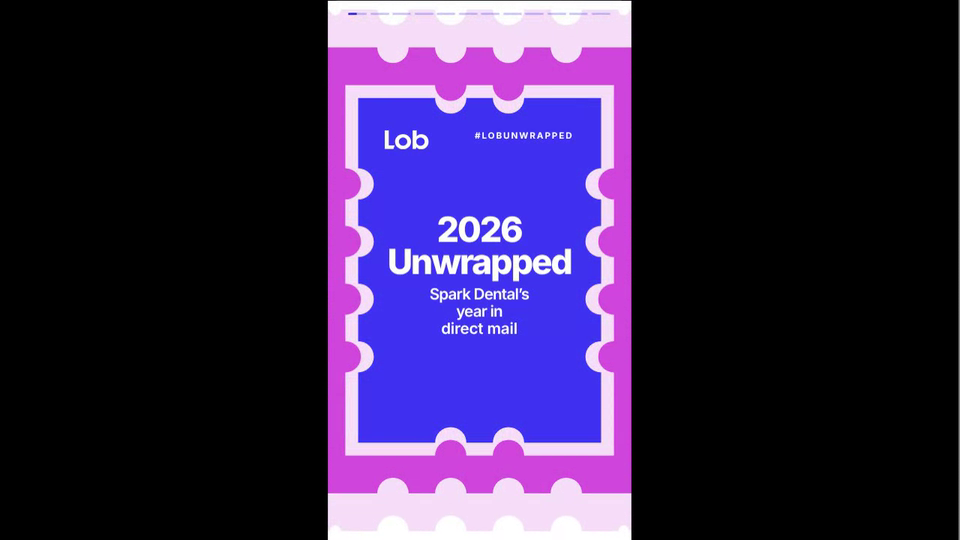
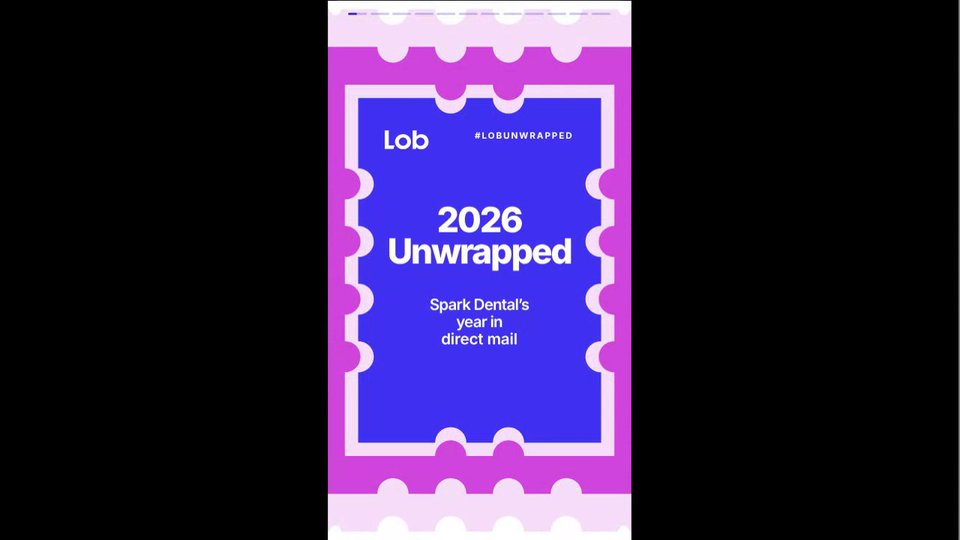
Lob Unwrapped Reel: lower subtitle, bigger slide 2-4 visuals, lower QR visual, metro background behind the chart
Claude-Session: https://claude.ai/code/session_01AHeBdxRVStik7dwokvTaSs

diff --git a/lob-unwrapped-reel/index.html b/lob-unwrapped-reel/index.html
@@ -225,26 +225,27 @@ body{align-items:center}
   .stage>*{--ah:32cqh}
   .in:not(.ctr):not(:has(.cswrap)){grid-template-rows:minmax(0,1fr) 50cqh;row-gap:0;padding-bottom:0;align-items:start}
   .in:not(:has(.cswrap)) .art{align-self:stretch;align-items:center;justify-content:center;padding:0 0 26cqh;overflow:visible}
+  .in:not(.ctr) .art:has(.rankwrap){padding:0;margin-bottom:26cqh}
   .art:not(:has(.cswrap))>.rise{height:var(--ah);display:flex;align-items:center;justify-content:center}
-  .art .tun.round{width:var(--ah);height:var(--ah)}
-  .art>.rise>.tun:not(.round){width:100%;height:var(--ah)}
-  .arts{width:calc(var(--ah)*1.04);margin:0;max-width:none}
+  .art .tun.round{width:calc(var(--ah)*1.3);height:calc(var(--ah)*1.3);position:relative;top:3cqh}
+  .art>.rise>.tun:not(.round){width:100%;height:var(--ah);position:relative;top:6cqh}
+  .arts{width:calc(var(--ah)*1.04*1.3);margin:0;max-width:none;position:relative;top:3cqh}
   .map{width:min(calc(var(--ah)*1.85),108%);margin:0 -8% 0 0}
   .rankwrap{gap:calc(var(--u)*2.4)}
   .rankwrap .lead{font-size:calc(var(--u)*5.6)}
   .rank{gap:calc(var(--u)*2.4)}
   .rank .n{font-size:calc(var(--u)*7.4)}.rank .nm{font-size:calc(var(--u)*5)}.rank .t{height:calc(var(--u)*1.8);margin-top:calc(var(--u)*1)}
-  .in.col:not(.ctr):not(:has(.cswrap)){justify-content:flex-start;padding-bottom:18cqh}
+  .in.col:not(.ctr):not(:has(.cswrap)){justify-content:flex-start;padding-bottom:14cqh}
   .in.col .mixrow{margin:auto 0;grid-template-columns:minmax(0,1fr);gap:calc(var(--u)*5)}
-  .mix{grid-template-columns:calc(var(--u)*38) minmax(0,1fr);grid-template-areas:"pc b" "pc s" "pc m";column-gap:calc(var(--u)*6);row-gap:calc(var(--u)*.8);align-content:center;align-items:center}
-  .mix .pc{grid-area:pc;margin:0}.mix b{grid-area:b;font-size:calc(var(--u)*9)}.mix span{grid-area:s}.mix small{grid-area:m}
+  .mix{grid-template-columns:calc(var(--u)*46) minmax(0,1fr);grid-template-areas:"pc b" "pc s" "pc m";column-gap:calc(var(--u)*6);row-gap:calc(var(--u)*.8);align-content:center;align-items:center}
+  .mix .pc{grid-area:pc;margin:0}.mix b{grid-area:b;font-size:calc(var(--u)*10.5)}.mix span{grid-area:s}.mix small{grid-area:m}
   .hd{justify-content:flex-end}.hd [data-logo]{width:calc(var(--u)*13)}
   .tags{flex-direction:column;align-items:center;gap:calc(var(--u)*2)}
   .pcirc{width:68cqw;margin-top:calc(var(--u)*-14)}
   .k{font-size:calc(var(--u)*3.4)}
   .h,.h.sm{font-size:calc(var(--u)*8.6)}
   .hero{font-size:calc(var(--u)*13.5)}
-  .tx:has(.hero) .lead{font-size:calc(var(--u)*6);line-height:1.12}
+  .tx:has(.hero) .lead{font-size:calc(var(--u)*6);line-height:1.12;margin-top:calc(var(--u)*8)}
   .lead{font-size:calc(var(--u)*7)}
   .big,.big.md{font-size:12.5cqw}.big.lg{font-size:19cqw}
   .sub{font-size:calc(var(--u)*4.4)}.fine{font-size:calc(var(--u)*3.2)}.pill{font-size:calc(var(--u)*3.4)}

diff --git a/tools/sync-lob-reel.py b/tools/sync-lob-reel.py
@@ -26,26 +26,27 @@ REEL_CSS = """
   .stage>*{--ah:32cqh}
   .in:not(.ctr):not(:has(.cswrap)){grid-template-rows:minmax(0,1fr) 50cqh;row-gap:0;padding-bottom:0;align-items:start}
   .in:not(:has(.cswrap)) .art{align-self:stretch;align-items:center;justify-content:center;padding:0 0 26cqh;overflow:visible}
+  .in:not(.ctr) .art:has(.rankwrap){padding:0;margin-bottom:26cqh}
   .art:not(:has(.cswrap))>.rise{height:var(--ah);display:flex;align-items:center;justify-content:center}
-  .art .tun.round{width:var(--ah);height:var(--ah)}
-  .art>.rise>.tun:not(.round){width:100%;height:var(--ah)}
-  .arts{width:calc(var(--ah)*1.04);margin:0;max-width:none}
+  .art .tun.round{width:calc(var(--ah)*1.3);height:calc(var(--ah)*1.3);position:relative;top:3cqh}
+  .art>.rise>.tun:not(.round){width:100%;height:var(--ah);position:relative;top:6cqh}
+  .arts{width:calc(var(--ah)*1.04*1.3);margin:0;max-width:none;position:relative;top:3cqh}
   .map{width:min(calc(var(--ah)*1.85),108%);margin:0 -8% 0 0}
   .rankwrap{gap:calc(var(--u)*2.4)}
   .rankwrap .lead{font-size:calc(var(--u)*5.6)}
   .rank{gap:calc(var(--u)*2.4)}
   .rank .n{font-size:calc(var(--u)*7.4)}.rank .nm{font-size:calc(var(--u)*5)}.rank .t{height:calc(var(--u)*1.8);margin-top:calc(var(--u)*1)}
-  .in.col:not(.ctr):not(:has(.cswrap)){justify-content:flex-start;padding-bottom:18cqh}
+  .in.col:not(.ctr):not(:has(.cswrap)){justify-content:flex-start;padding-bottom:14cqh}
   .in.col .mixrow{margin:auto 0;grid-template-columns:minmax(0,1fr);gap:calc(var(--u)*5)}
-  .mix{grid-template-columns:calc(var(--u)*38) minmax(0,1fr);grid-template-areas:"pc b" "pc s" "pc m";column-gap:calc(var(--u)*6);row-gap:calc(var(--u)*.8);align-content:center;align-items:center}
-  .mix .pc{grid-area:pc;margin:0}.mix b{grid-area:b;font-size:calc(var(--u)*9)}.mix span{grid-area:s}.mix small{grid-area:m}
+  .mix{grid-template-columns:calc(var(--u)*46) minmax(0,1fr);grid-template-areas:"pc b" "pc s" "pc m";column-gap:calc(var(--u)*6);row-gap:calc(var(--u)*.8);align-content:center;align-items:center}
+  .mix .pc{grid-area:pc;margin:0}.mix b{grid-area:b;font-size:calc(var(--u)*10.5)}.mix span{grid-area:s}.mix small{grid-area:m}
   .hd{justify-content:flex-end}.hd [data-logo]{width:calc(var(--u)*13)}
   .tags{flex-direction:column;align-items:center;gap:calc(var(--u)*2)}
   .pcirc{width:68cqw;margin-top:calc(var(--u)*-14)}
   .k{font-size:calc(var(--u)*3.4)}
   .h,.h.sm{font-size:calc(var(--u)*8.6)}
   .hero{font-size:calc(var(--u)*13.5)}
-  .tx:has(.hero) .lead{font-size:calc(var(--u)*6);line-height:1.12}
+  .tx:has(.hero) .lead{font-size:calc(var(--u)*6);line-height:1.12;margin-top:calc(var(--u)*8)}
   .lead{font-size:calc(var(--u)*7)}
   .big,.big.md{font-size:12.5cqw}.big.lg{font-size:19cqw}
   .sub{font-size:calc(var(--u)*4.4)}.fine{font-size:calc(var(--u)*3.2)}.pill{font-size:calc(var(--u)*3.4)}
